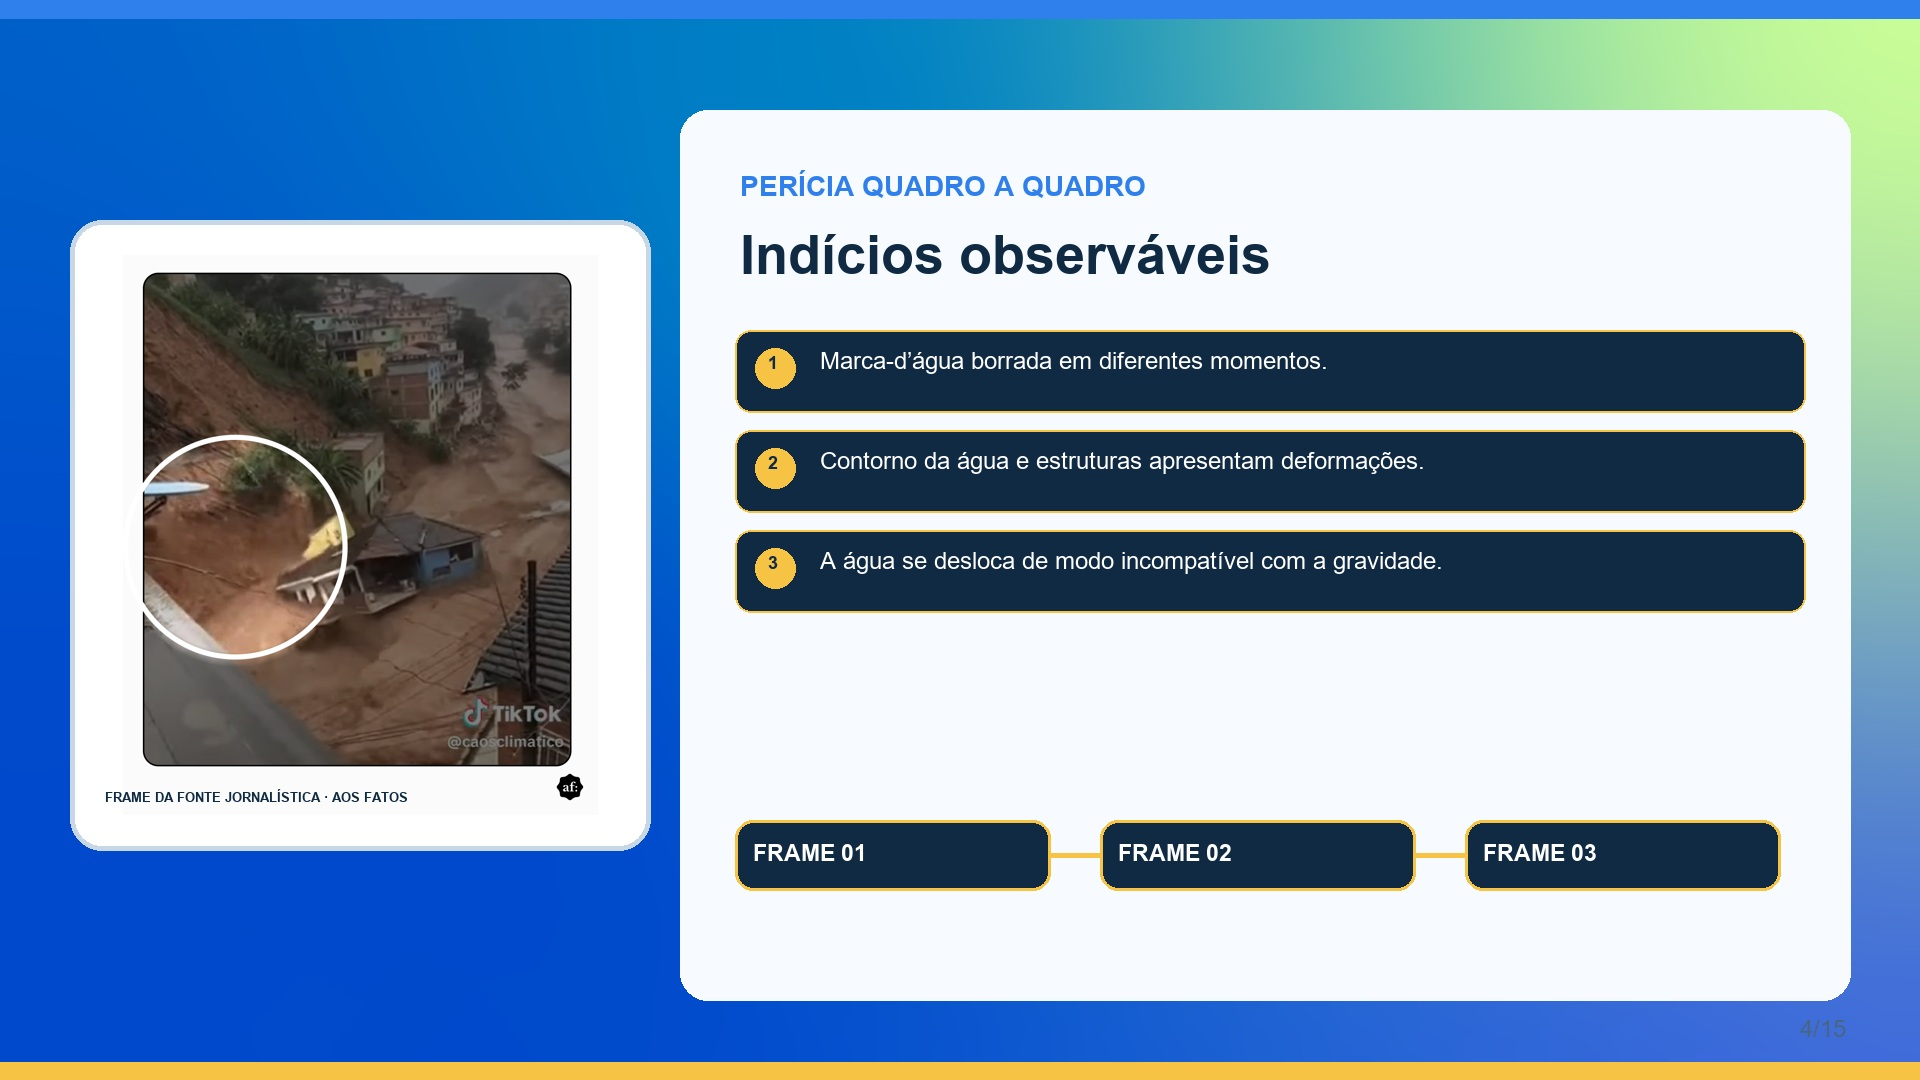
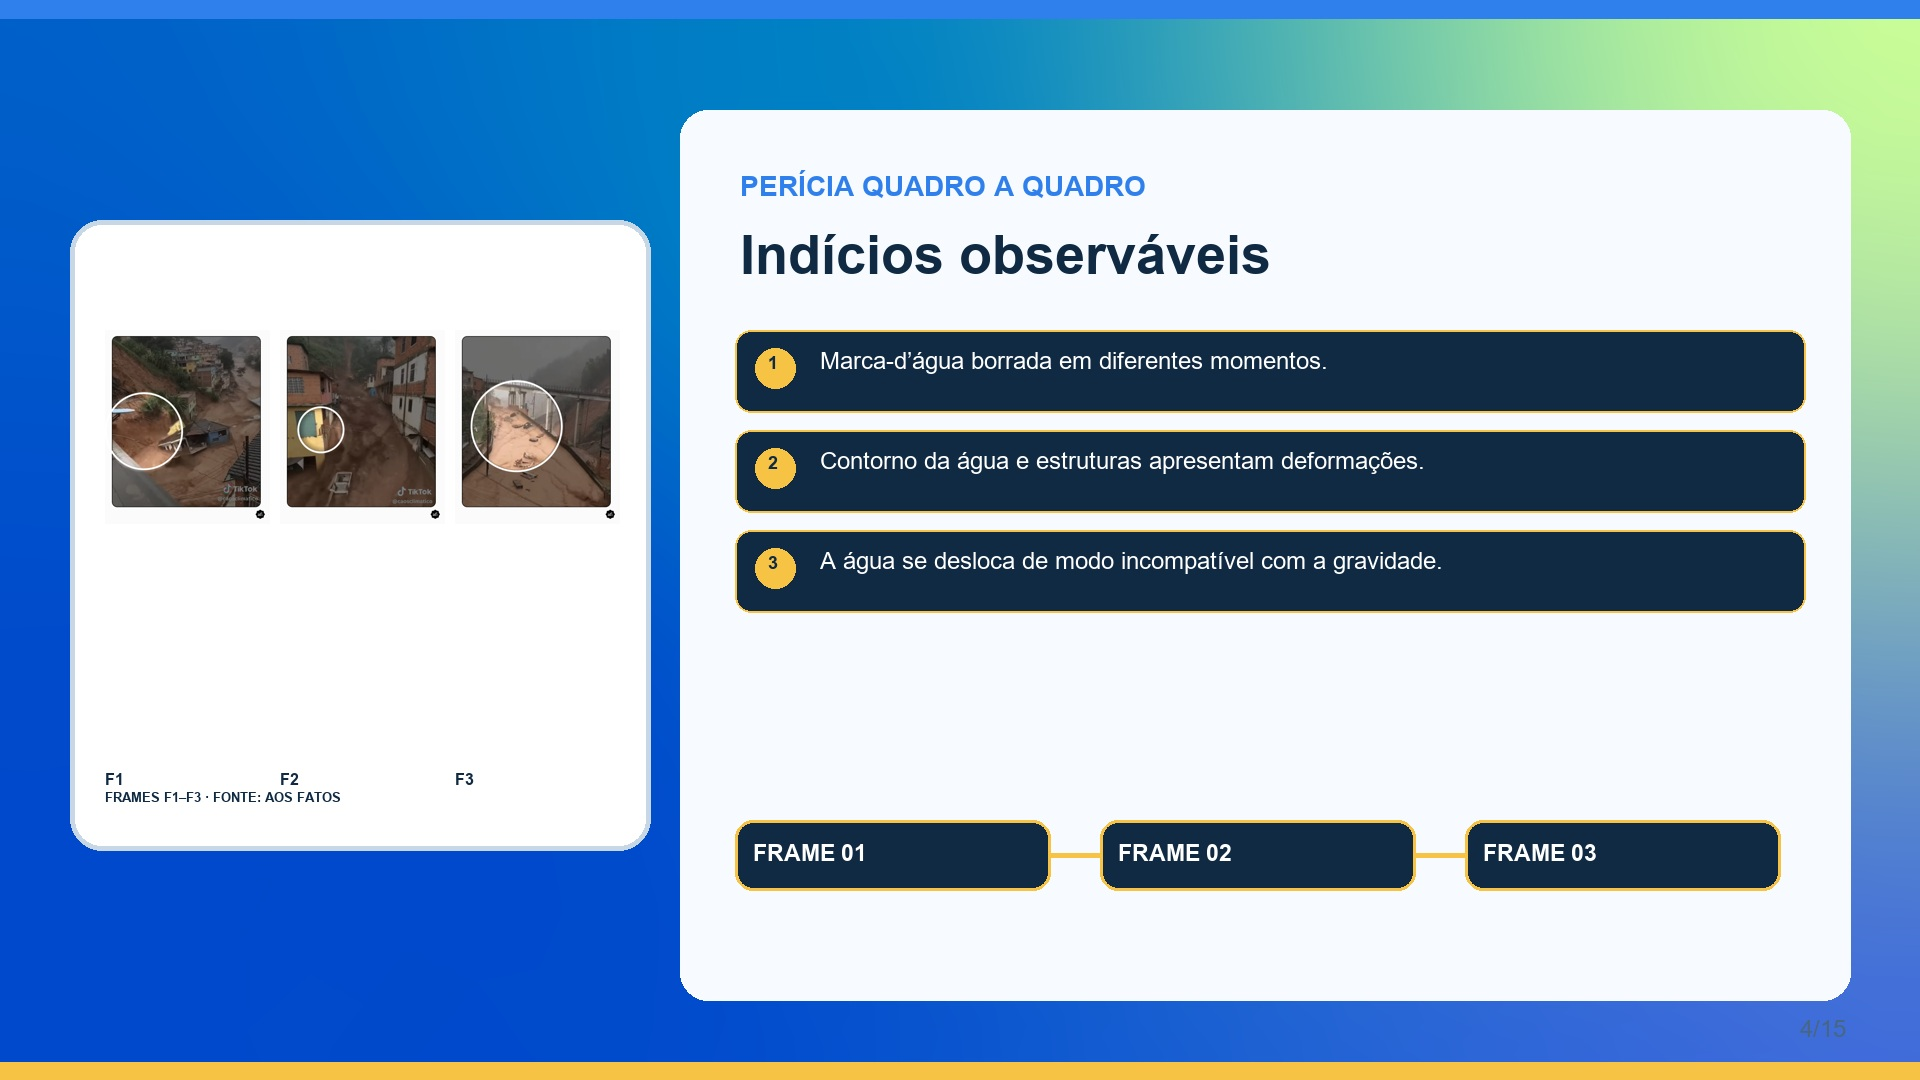
fix: exibir tres frames no slide de pericia

Changed region(s): [[0.0312, 0.2444, 0.3438, 0.7639]]

diff --git a/scripts/generate_case_jpgs.py b/scripts/generate_case_jpgs.py
@@ -36,8 +36,14 @@ for i,(section,title,paras,asset) in enumerate(S,1):
     im=Image.open(A/'template-capa-002.png').convert('RGB').resize((1920,1080)); d=ImageDraw.Draw(im)
     d.rectangle((0,0,1920,18),fill=(47,128,237)); d.rectangle((0,1062,1920,1080),fill=(246,195,68))
     d.rounded_rectangle((680,110,1850,1000),radius=28,fill=(247,251,255)); d.rounded_rectangle((70,220,650,850),radius=32,fill='white',outline=(199,215,229),width=5)
-    evidence={3:'frame-contexto.png',4:'frame-marca-dagua.png',6:'frame-perspectiva.png',14:'frame-fisica.png'}.get(i)
-    if evidence and (E/evidence).exists():
+    evidence={3:'frame-contexto.png',6:'frame-perspectiva.png',14:'frame-fisica.png'}.get(i)
+    if i==4:
+        montage=['frame-marca-dagua.png','frame-perspectiva.png','frame-fisica.png']; x0=105
+        for n,name in enumerate(montage):
+            src=Image.open(E/name).convert('RGB'); src.thumbnail((165,430)); im.paste(src,(x0+n*175,330))
+            d.text((x0+n*175,770),f'F{n+1}',font=ft(16,True),fill=(16,42,67))
+        d.text((105,790),'FRAMES F1–F3 · FONTE: AOS FATOS',font=ft(13,True),fill=(16,42,67))
+    elif evidence and (E/evidence).exists():
         a=Image.open(E/evidence).convert('RGB'); a.thumbnail((520,560)); im.paste(a,(360-a.width//2,535-a.height//2))
         d.text((105,790),'FRAME DA FONTE JORNALÍSTICA · AOS FATOS',font=ft(13,True),fill=(16,42,67))
     else:
